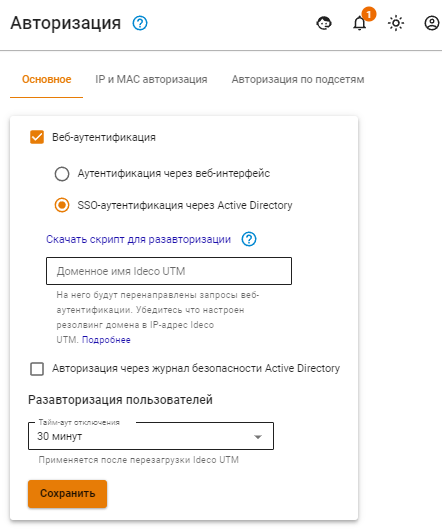
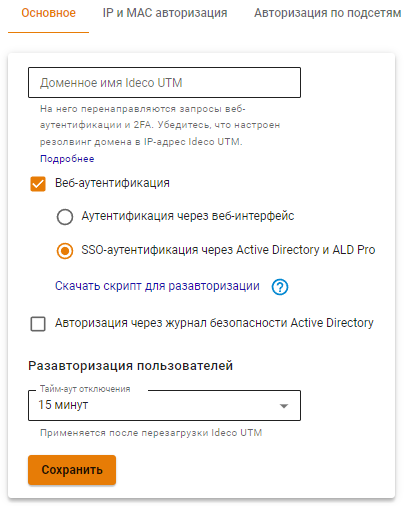
ICS-30832 УТМ. ALD PRo: Документация

diff --git a/settings/users/ald-pro.md b/settings/users/ald-pro.md
@@ -1,6 +1,6 @@
 ---
 description: >- 
-    Описание интеграции Ideco UTM с системой управления каталогами ALD Pro.
+    В Ideco UTM реализована возможность односторонней синхронизации с системой управления каталогами ALD Pro.
 ---
 
 # ALD Pro
@@ -8,6 +8,8 @@ description: >-
 {% hint style="success" %}
 Название службы раздела **ALD Pro**: `ideco-ald-rest`; `ideco-ald-backend`. \
 Список служб для других разделов доступен по [ссылке](../../server-management/terminal.md).
+
+Ideco UTM поддерживает версии ALD Pro от 1.4 и выше.
 {% endhint %}
 
 [ALD Pro](https://www.aldpro.ru/) предназначен для централизованного управления ресурсами под управлением ОС Astra Linux и может использоваться в организациях различного масштаба.
@@ -15,13 +17,17 @@ description: >-
 Руководства по эксплуатации ALD Pro доступны на [официальном сайте](https://www.aldpro.ru/docs/).
 
 {% hint style="info" %}
-Cинхронизация с ALD Pro приостанавливается, если локальные пользователи Ideco UTM находятся в группах AD.
+Синхронизация с ALD Pro приостанавливается, если локальные пользователи Ideco UTM находятся в группах AD.
 Для возобновления синхронизации вынесите локальных пользователей из групп ALD Pro. Автоматическая синхронизация произойдет через 15 минут.
 {% endhint %}
 
 ## Ввод сервера в домен
 
-1\. Перейдите на вкладку **Пользователи -> ALD Pro**.
+1\. Перейдите в раздел **Сервисы -> DNS -> Внешние DNS-серверы** и добавьте сервер ALD:
+
+![](../../.gitbook/assets/ald-pro1.png)
+
+2\. Перейдите на вкладку **Пользователи -> ALD Pro**.
 
 2\. Нажмите на кнопку **Добавить**.
 
@@ -45,13 +51,9 @@ ALD Pro поддерживает импорт двух типов групп:
 
 Для импорта пользователей выполните действия:
 
-1\. Перейдите в раздел **Сервисы -> DNS -> Внешние DNS-серверы** и добавьте сервер ALD:
+1\. Перейдите в раздел **Пользователи -> Учетные записи** и создайте группу, в которую будут импортированы пользователи, нажав на ![](../../.gitbook/assets/icon-folder.svg).
 
-![](../../.gitbook/assets/ald-pro1.png)
-
-2\. Перейдите в раздел **Пользователи -> Учетные записи** и создайте группу, в которую будут импортированы пользователи, нажав на ![](../../.gitbook/assets/icon-folder.svg).
-
-3\. Перейдите на вкладку **ALD**, выберите домен, тип группы и нажмите **Сохранить**.
+2\. Перейдите на вкладку **ALD**, выберите домен, тип группы и нажмите **Сохранить**.
 
 Импортированных пользователей можно использовать как объекты для создания правил например в **Файрволе**.
 
@@ -63,16 +65,36 @@ ALD Pro поддерживает импорт двух типов групп:
 
 ## Аутентификация пользователей 
 
+При аутентификации пользователей проверка осуществляется средствами Kerberos
+
 ALD Pro поддерживает два типа входа в систему:
 * вход по логину/паролю;
 * вход с Kerberos.
+
+### Настройка Ideco UTM
 
 Для настройки аутентификации выполните действия: 
 
 1\. Перейдите в раздел **Пользователи -> Авторизация -> Основное**.
 
-2\. Активируйте опцию **Веб-аутентификация -> SSO-аутентификация через Active Directory и ALD Pro** :
+2\. Активируйте опцию **Веб-аутентификация -> SSO-аутентификация через Active Directory и ALD Pro** и нажмите **Сохранить**:
+
+![](../../.gitbook/assets/active-directory5.png)
 
 После заполнения поля *Доменное имя Ideco UTM* и сохранения настроек будет выдан Let’s Encrypt сертификат, и пользователь будет перенаправляться на окно авторизации, минуя страницу исключения безопасности:
 
 ![](../../.gitbook/assets/web-autorization2.png)
+
+Если сертификат для такого домена уже загружен в разделе [Сертификаты](../../services/certificates/README.md), то будет использоваться загруженный сертификат, новый сертификат выдаваться не будет.
+
+### Настройка клиентских машин для веб-аутентификации
+
+На странице настроек браузера Mozilla Firefox (about:config в адресной строке) настройте следующие параметры:
+* `network.automatic-ntlm-auth.trusted-uris` и `network.negotiate-auth.trusted-uris` добавьте адрес локального интерфейса Ideco UTM (например idecoUTM.example.ru);
+* `security.enterprise_roots.enabled` в значении `true` позволит Firefox доверять системным сертификатом и авторизовать пользователей при переходе на HTTPS-сайты.
+
+Способы аутентификации импортированных пользователей:
+
+* Через Ideco Agent - подходит для аутентификации пользователей терминальных серверов (с использованием Remote Desktop IP Virtualization на терминальном сервере);
+* Авторизация по IP-адресу - подходит для пользователей с фиксированным IP-адресом. IP-адреса на UTM необходимо прописать вручную каждому пользователю;
+* Авторизация по VPN - подходит для аутентификации пользователей удаленных сетей.

diff --git a/SUMMARY.md b/SUMMARY.md
@@ -43,7 +43,7 @@
   * [Ideco агент](settings/users/ideco-agent.md)
   * [Интеграция с Active Directory/Samba DC](settings/users/active-directory/README.md)
     * [Ввод сервера в домен](settings/users/active-directory/entering-the-server-into-the-domain.md)
-    * [Авторизация пользователей AD/Samba DC](settings/users/active-directory/active-directory-user-authorization.md)
+    * [Аутентификация пользователей AD/Samba DC](settings/users/active-directory/active-directory-user-authorization.md)
     * [Скрипты автоматической разавторизации](settings/users/active-directory/auto-de-authorization-script.md)
     * [Импорт пользователей](settings/users/active-directory/user-import.md)
   * [ALD Pro](settings/users/ald-pro.md)
